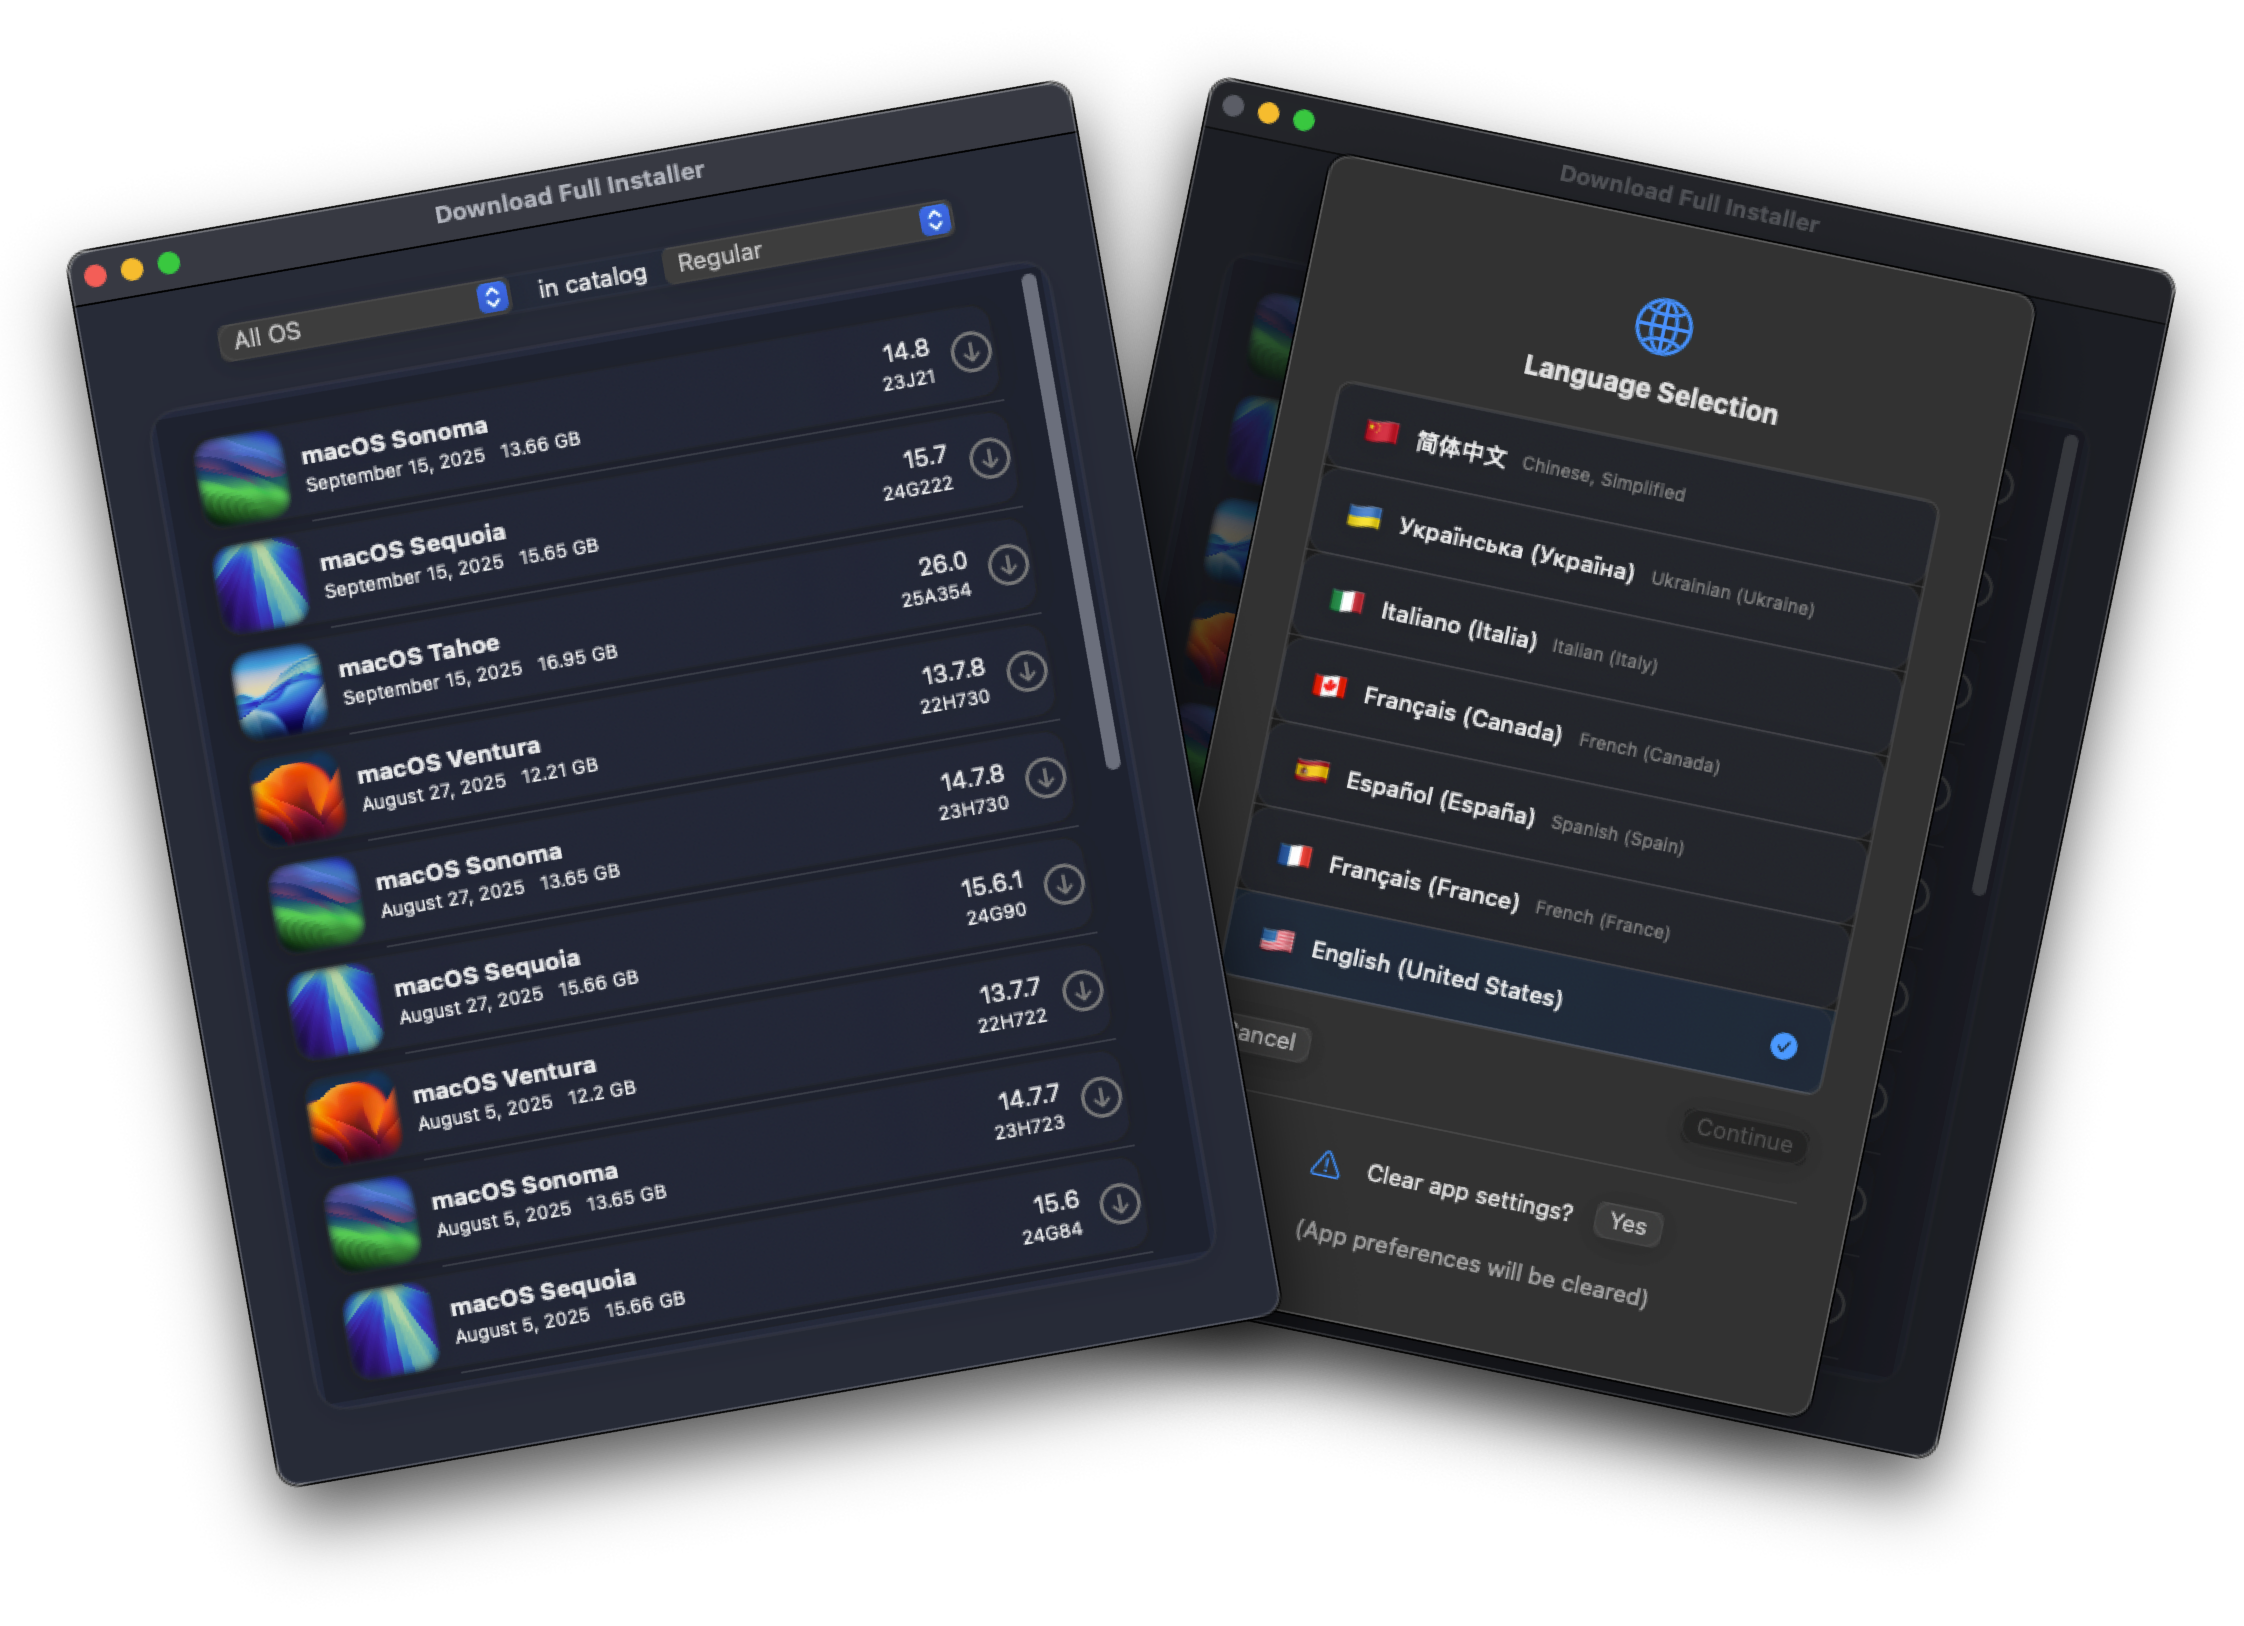
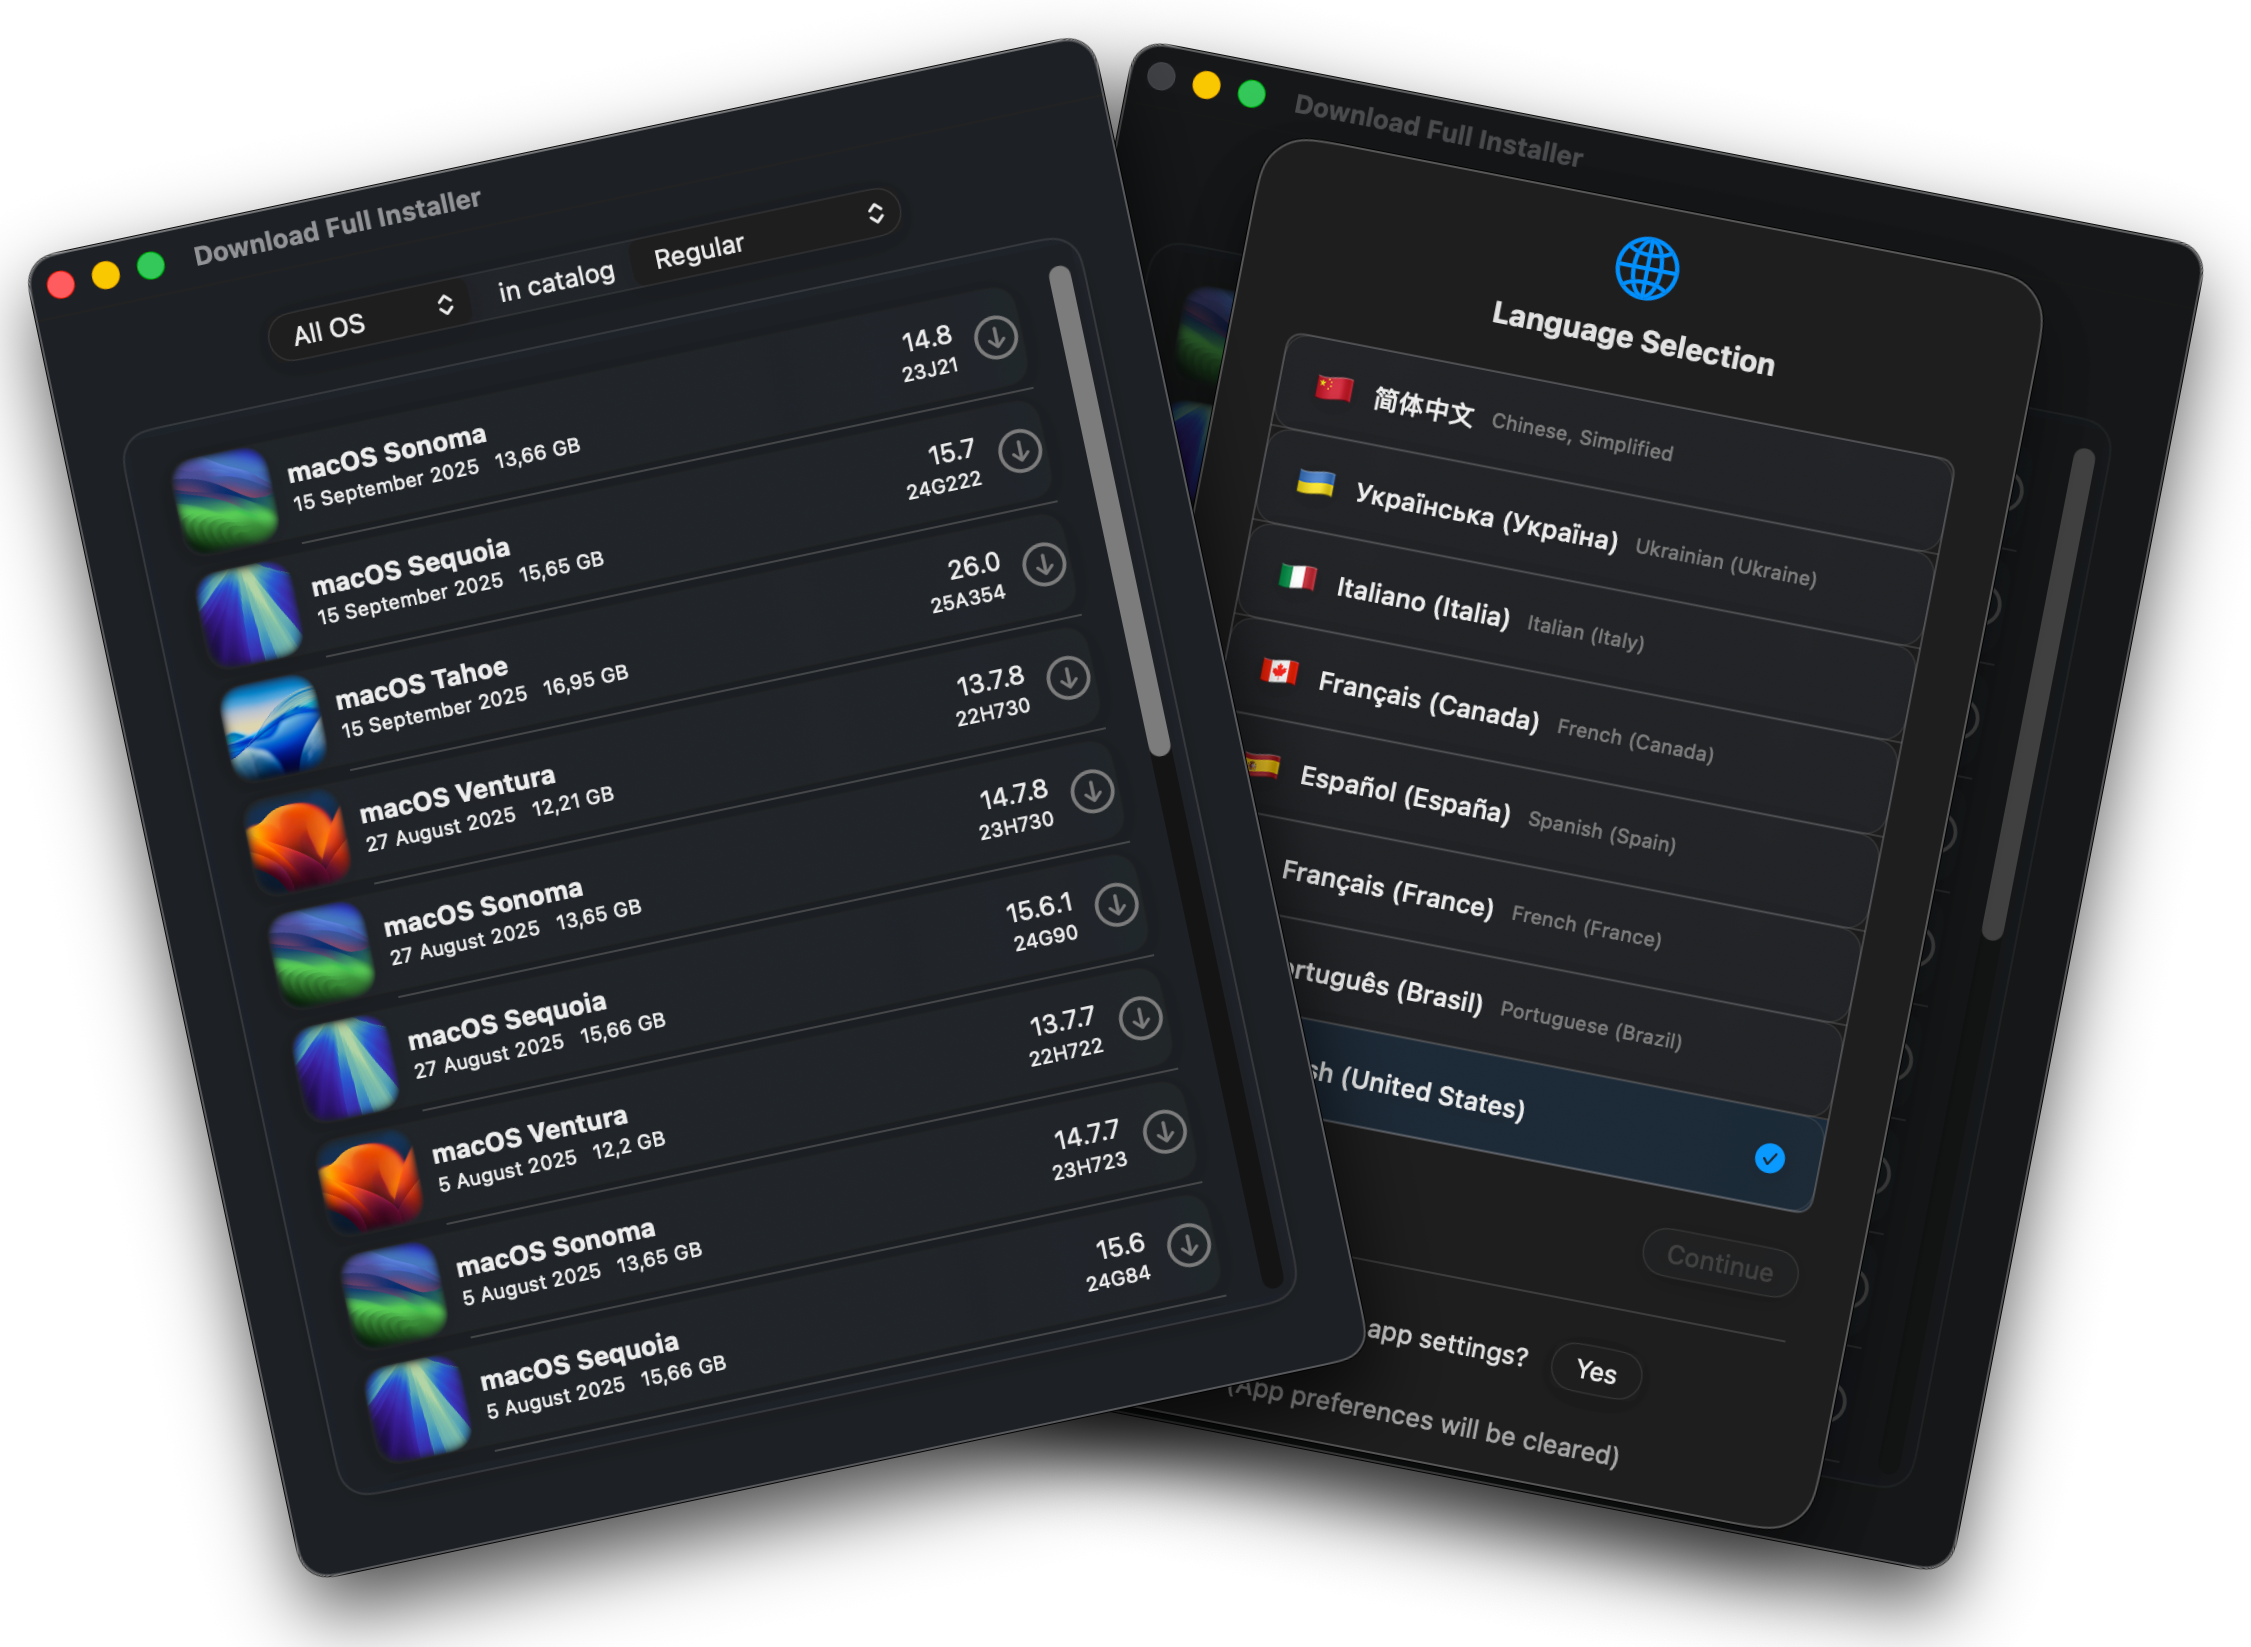
Update main images with Brazilian Portuguese

Changed region(s): [[0.0, 0.0, 0.9982, 1.0], [0.8111, 0.7688, 0.8422, 0.7995], [0.0936, 0.861, 0.1248, 0.8918]]

diff --git a/Changelog.md b/Changelog.md
@@ -1,3 +1,8 @@
+
+### 2.2.0-145
+
+- Image set icons as badges with a more Tahoe style, thanks [Chris1111](https://github.com/chris1111).
+
 ### 2.2.1-145
 
 - Add Brazilian Portuguese language.
